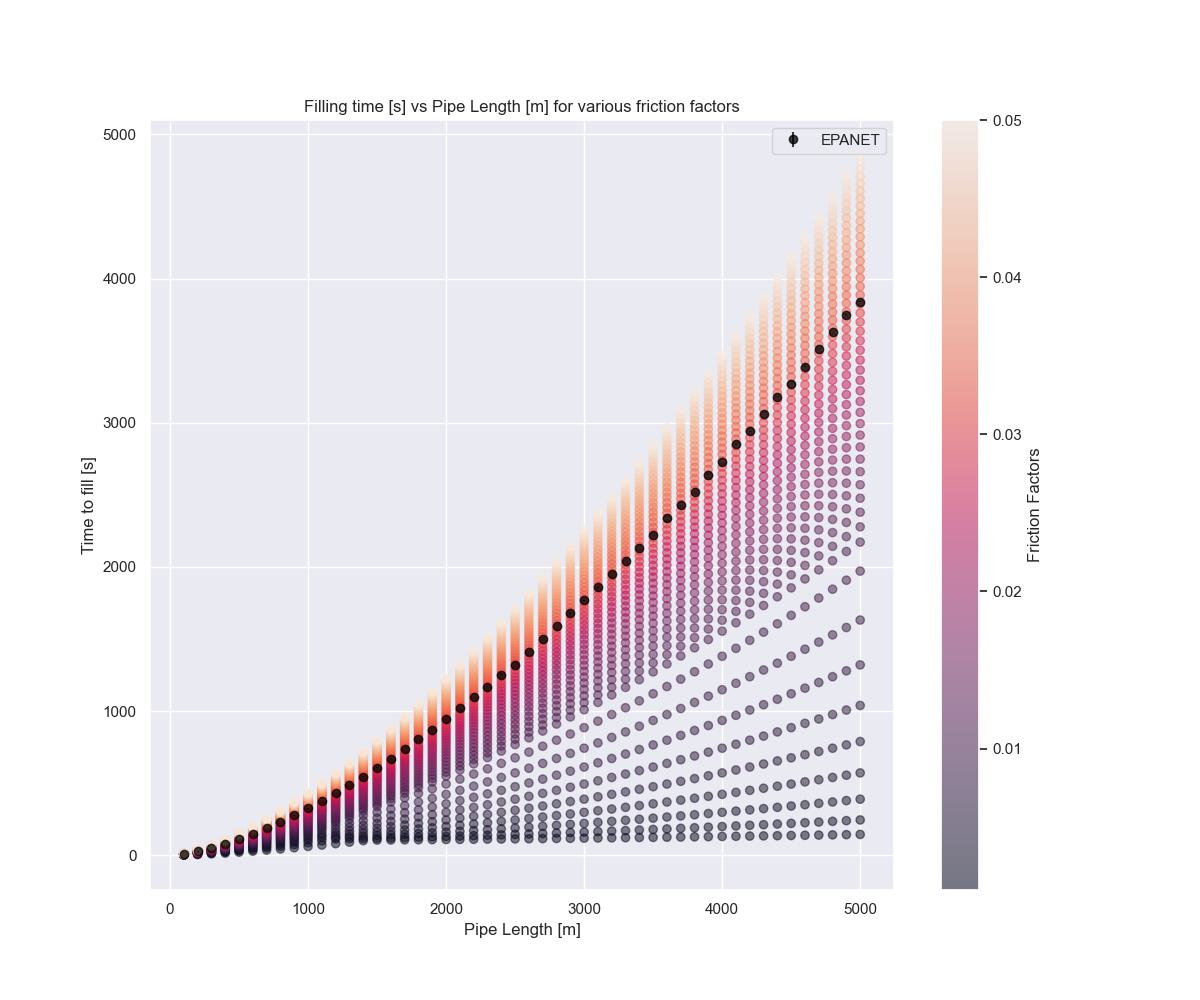
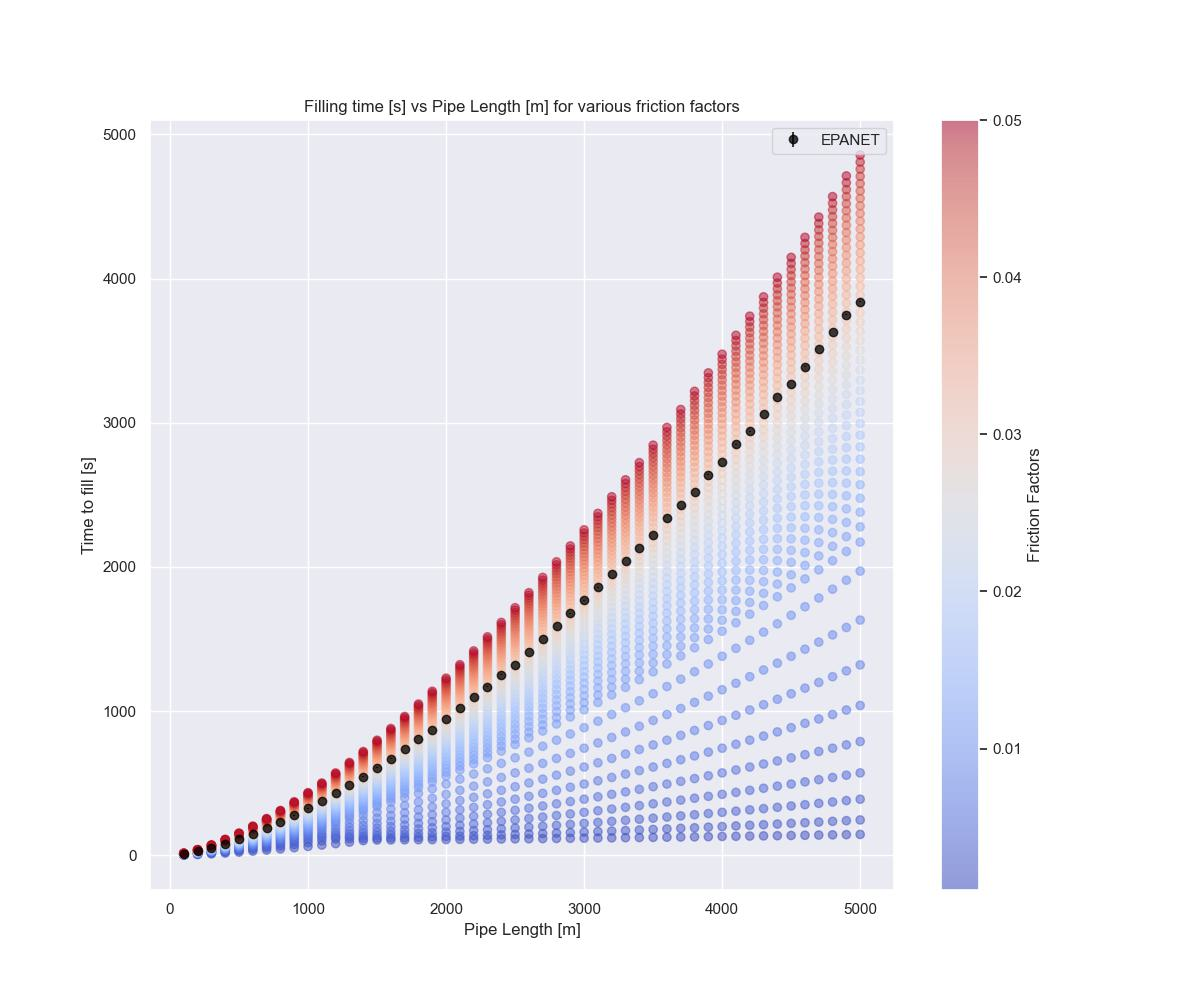
updated graphs

Changed region(s): [[0.1542, 0.155, 0.74, 0.868], [0.7708, 0.341, 0.8325, 0.899], [0.7708, 0.124, 0.8325, 0.248]]

diff --git a/experiment_find_optimal_friction_factor.py b/experiment_find_optimal_friction_factor.py
@@ -11,6 +11,10 @@ from tqdm import tqdm
 from PipeConverter import PipeConverter
 from WNTRWrapper import WNTRWrapper
 
+# set seaborn theme
+cmap = sns.color_palette("coolwarm", as_cmap=True)
+sns.set_theme()
+
 
 def plot_all(variable_parameter, epanet_fill_times, friction_factors, simulation_fill_times_by_ff, best_ff,
              param="Pipe Length [m]", filename="pipes"):
@@ -26,16 +30,12 @@ def plot_all(variable_parameter, epanet_fill_times, friction_factors, simulation
 
 
 def plot_all_ff(pipe_lengths, epanet_fill_times, friction_factors, simulation_fill_times_by_ff, param, filename):
-    # set seaborn theme
-    sns.color_palette("coolwarm", as_cmap=True)
-    sns.set_theme()
-
     # need to find max and min ff for scaling colours
     norm = matplotlib.colors.Normalize(vmin=np.min(friction_factors), vmax=np.max(friction_factors))
 
     for ff in friction_factors:
         simulation_fill_time = simulation_fill_times_by_ff[ff]
-        plt.scatter(pipe_lengths, simulation_fill_time, alpha=0.5, c=[ff for _ in pipe_lengths], norm=norm)
+        plt.scatter(pipe_lengths, simulation_fill_time, alpha=0.5, c=[ff for _ in pipe_lengths], norm=norm, cmap=cmap)
 
     plt.errorbar(pipe_lengths, epanet_fill_times, yerr=1.5, label="EPANET", color="black", fmt="o", alpha=0.75)
     plt.title(f'Filling time [s] vs {param} for various friction factors')
